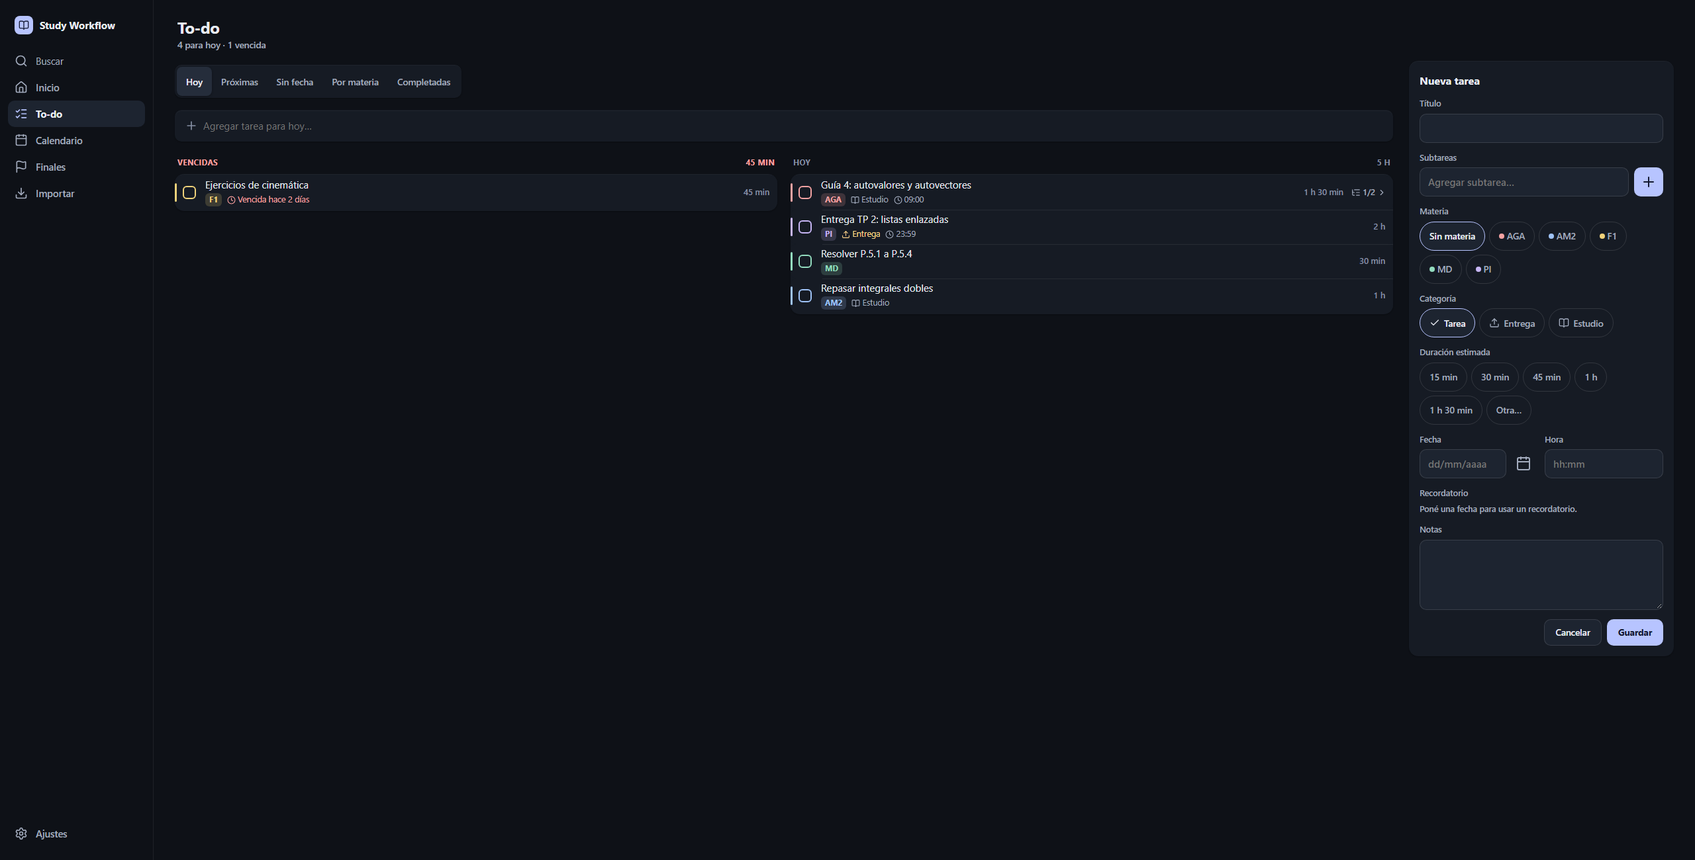
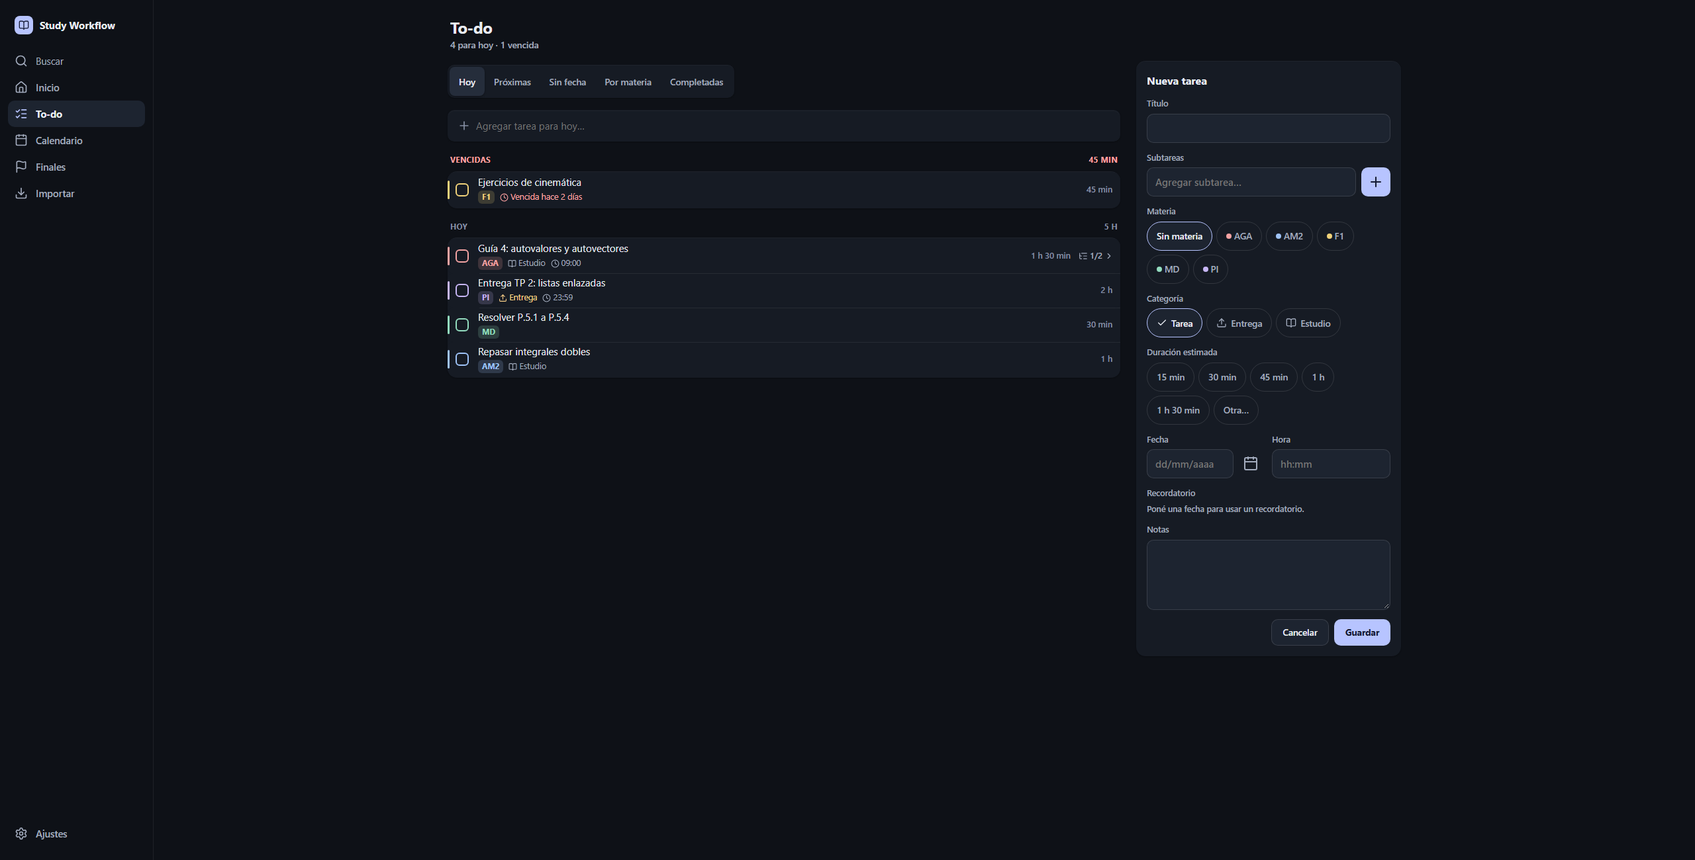
feat(producto): compresión del servidor, tokens de radios y avisos, checklist del S25 y documentación de la etapa 4

diff --git a/core/web/styles.css b/core/web/styles.css
@@ -6,12 +6,13 @@
   --text: #e8ebf2; --muted: #a3acbe; --faint: #8790a4;
   --accent: #b7c4ff; --accent-hover: #c7d1ff; --on-accent: #141a33; --accent-soft: rgb(183 196 255 / .14);
   --late: #ffa3a3; --entrega: #ffd38a; --ok: #93dcbf; /* peligro / aviso / completado */
+  --inverse: #e8ebf2; --on-inverse: #10131a; --inverse-action: #3a4ba8; /* aviso (toast): claro sobre el fondo oscuro */
   --on-strong: #fff; --scrim: rgb(5 7 10 / .6); /* texto sobre el tono fuerte de una materia; fondo detrás de hojas */
   /* Zonas seguras del APK (edge-to-edge): Capacitor inyecta --safe-area-inset-*; en la web valen 0. */
   --sat: var(--safe-area-inset-top, env(safe-area-inset-top, 0px)); --sab: var(--safe-area-inset-bottom, env(safe-area-inset-bottom, 0px));
   /* Espaciado (escala 4/8), radios y elevación */
   --s1: 4px; --s2: 8px; --s3: 12px; --s4: 16px; --s5: 20px; --s6: 24px; --s8: 32px;
-  --r-card: 14px; --r-ctl: 10px; --r-chip: 6px; --r-sheet: 20px;
+  --r-card: 14px; --r-ctl: 10px; --r-sm: 8px; --r-chip: 6px; --r-sheet: 20px;
   --e1: inset 0 1px 0 rgb(255 255 255 / .04), 0 1px 2px rgb(0 0 0 / .3);
   --e2: 0 8px 24px rgb(0 0 0 / .45); --e3: 0 24px 64px rgb(0 0 0 / .55);
   --nav-h: calc(68px + var(--sab)); --side-w: 232px;
@@ -65,7 +66,7 @@ p { margin: 0 0 .75rem; }
   .nav { display: none; }
   .side { display: flex; flex-direction: column; position: fixed; inset: 0 auto 0 0; width: var(--side-w); padding: 20px 12px; border-right: 1px solid var(--line); background: var(--bg); z-index: 10; }
   .brand { display: flex; align-items: center; gap: 10px; font-weight: 700; padding: 4px 10px 20px; }
-  .brand i { width: 28px; height: 28px; border-radius: 8px; background: var(--accent); color: var(--on-accent); display: grid; place-items: center; }
+  .brand i { width: 28px; height: 28px; border-radius: var(--r-sm); background: var(--accent); color: var(--on-accent); display: grid; place-items: center; }
   .side .eyebrow { padding: 16px 12px 6px; }
   .side-item { display: flex; align-items: center; gap: 12px; min-height: 40px; padding: 0 10px; border-radius: var(--r-ctl); color: var(--muted); text-decoration: none; font-size: calc(14.5px * var(--fs)); font-weight: 500; transition: background var(--d-micro), color var(--d-micro); }
   .side-item svg { width: 20px; height: 20px; }
@@ -113,10 +114,10 @@ p { margin: 0 0 .75rem; }
 @media (min-width: 768px) and (pointer: fine) { .btn { min-height: 40px; padding: 0 16px; } }
 .row { display: flex; gap: 8px; flex-wrap: wrap; justify-content: flex-end; }
 .seg { position: relative; display: inline-flex; background: var(--surface); border-radius: var(--r-ctl); padding: 3px; box-shadow: var(--e1); }
-.seg button { position: relative; height: 44px; min-width: 44px; padding: 0 14px; border: 0; background: none; border-radius: 8px; color: var(--muted); cursor: pointer; font-weight: 600; font-size: var(--t-sec); transition: color var(--d-small); }
+.seg button { position: relative; height: 44px; min-width: 44px; padding: 0 14px; border: 0; background: none; border-radius: var(--r-sm); color: var(--muted); cursor: pointer; font-weight: 600; font-size: var(--t-sec); transition: color var(--d-small); }
 .seg button.on, .seg button[aria-pressed='true'] { background: var(--surface-3); color: var(--text); }
 .seg button:has(> .seg-ind) { background: none; }
-.seg .seg-ind { position: absolute; inset: 0; border-radius: 8px; background: var(--surface-3); box-shadow: 0 1px 3px rgb(0 0 0 / .35); }
+.seg .seg-ind { position: absolute; inset: 0; border-radius: var(--r-sm); background: var(--surface-3); box-shadow: 0 1px 3px rgb(0 0 0 / .35); }
 .seg button > span:not(.seg-ind) { position: relative; }
 .seg-scroll { overflow-x: auto; scrollbar-width: none; margin: 0 -16px; padding: 2px 16px; }
 .seg-scroll .seg { width: max-content; }
@@ -138,7 +139,7 @@ p { margin: 0 0 .75rem; }
 .card-head :is(h1, h2) { margin: 0; font-size: var(--t-card); font-weight: 650; display: flex; align-items: center; gap: 8px; }
 .card-head :is(h1, h2) svg { color: var(--faint); }
 .card-head a { color: var(--accent); font-size: var(--t-sec); font-weight: 600; text-decoration: none; min-height: 44px; min-width: 44px; justify-content: flex-end; display: inline-flex; align-items: center; gap: 2px;
-  margin: -8px -6px; padding: 0 6px; border-radius: 8px; transition: background var(--d-micro); }
+  margin: -8px -6px; padding: 0 6px; border-radius: var(--r-sm); transition: background var(--d-micro); }
 @media (hover: hover) { .card-head a:hover { background: var(--accent-soft); } }
 /* Inicio: una columna en el celu (.dash-all), dos por `column` en la compu (.dash-col). */
 .dash-all, .dash-col, .dash-skel { display: flex; flex-direction: column; gap: var(--s3); }
@@ -174,7 +175,7 @@ input:not([type='checkbox']):not([type='radio']):focus, textarea:focus, select:f
 .tag.late { color: var(--late); }
 
 /* Fila de tarea: 48 px, con .chk de 44 x 44. Estructura: .task-row > .chk + .body(.title + .meta) + .dur */
-.task-row { position: relative; display: flex; align-items: center; gap: 4px; min-height: 48px; border-radius: 8px; transition: opacity var(--t); }
+.task-row { position: relative; display: flex; align-items: center; gap: 4px; min-height: 48px; border-radius: var(--r-sm); transition: opacity var(--t); }
 /* TaskRow (core/web/ui.tsx): .row-wrap(m.li) > .task-row > .row-inner(.chk + .body + .dur) */
 .rows { list-style: none; margin: 0; padding: 0; }
 .row-wrap { list-style: none; overflow: hidden; }
@@ -262,7 +263,7 @@ input:not([type='checkbox']):not([type='radio']):focus, textarea:focus, select:f
 .empty { display: flex; flex-direction: column; align-items: center; text-align: center; gap: 8px; padding: 32px 16px; color: var(--muted); font-size: var(--t-sec); }
 .empty .ic { width: 52px; height: 52px; border-radius: 16px; background: var(--surface-2); display: grid; place-items: center; color: var(--faint); margin-bottom: 4px; }
 .empty b { color: var(--text); font-size: var(--t-body); font-weight: 650; }
-.skel { border-radius: 8px; background: linear-gradient(90deg, var(--surface-2) 0 40%, var(--surface-3) 50%, var(--surface-2) 60% 100%) 0 0 / 300% 100%; animation: shimmer 1.2s linear infinite; }
+.skel { border-radius: var(--r-sm); background: linear-gradient(90deg, var(--surface-2) 0 40%, var(--surface-3) 50%, var(--surface-2) 60% 100%) 0 0 / 300% 100%; animation: shimmer 1.2s linear infinite; }
 html[data-motion='off'] .skel { animation: none; }
 .skel-card { display: grid; gap: 14px; }
 .skel-row { display: flex; gap: 12px; align-items: center; }
@@ -271,10 +272,10 @@ html[data-motion='off'] .skel { animation: none; }
 
 .center-screen { min-height: 100dvh; display: flex; flex-direction: column; align-items: center; justify-content: center; text-align: center; padding: 24px; gap: 8px; }
 .toast-zone { position: fixed; left: 0; right: 0; bottom: calc(var(--nav-h) + 12px); display: flex; justify-content: center; pointer-events: none; z-index: 50; padding: 0 16px; }
-.toast { pointer-events: auto; display: flex; align-items: center; gap: 12px; min-height: 52px; background: #e8ebf2; color: #10131a; padding: 6px 6px 6px 18px; border-radius: var(--r-card);
+.toast { pointer-events: auto; display: flex; align-items: center; gap: 12px; min-height: 52px; background: var(--inverse); color: var(--on-inverse); padding: 6px 6px 6px 18px; border-radius: var(--r-card);
   max-width: 420px; width: max-content; font-weight: 600; font-size: var(--t-sec); box-shadow: var(--e3); }
 .toast > span { padding: 8px 12px 8px 0; }
-.toast button { margin-left: auto; min-height: 40px; padding: 0 12px; border: 0; border-radius: 8px; background: none; color: #3a4ba8; font-weight: 700; cursor: pointer; }
+.toast button { margin-left: auto; min-height: 40px; padding: 0 12px; border: 0; border-radius: var(--r-sm); background: none; color: var(--inverse-action); font-weight: 700; cursor: pointer; }
 @media (min-width: 768px) { .toast-zone { bottom: 24px; left: var(--side-w); } }
 /* "Sin animaciones": prefs.ts pone data-motion="off" y --k: 0 */
 html[data-motion='off'] *, html[data-motion='off'] *::before, html[data-motion='off'] *::after { animation: none !important; transition: none !important; scroll-behavior: auto !important; }

diff --git a/core/server/app.ts b/core/server/app.ts
@@ -1,3 +1,5 @@
+import { constants, createBrotliCompress, createGzip } from 'node:zlib';
+import { Readable } from 'node:stream';
 import Fastify, { type FastifyInstance } from 'fastify';
 import fastifyStatic from '@fastify/static';
 import { registerAuth } from './auth.ts';
@@ -47,6 +49,16 @@ export async function buildApp(opts: { dbPath: string; modules: ServerModule[]; 
   const app = Fastify({ logger: !process.env.VITEST });
   registerCors(app, ['https://localhost']);
   registerAuth(app);
+  // Compresión (br o gzip) de texto, JS, CSS y JSON: el bundle baja de ~680 KB a ~200 KB. Con el zlib de Node, sin dependencias.
+  app.addHook('onSend', async (req, reply, payload) => {
+    const type = String(reply.getHeader('content-type') ?? '');
+    const ae = String(req.headers['accept-encoding'] ?? '');
+    const enc = ae.split(',').some((x) => x.trim().startsWith('br')) ? 'br' : ae.split(',').some((x) => x.trim().startsWith('gzip')) ? 'gzip' : null;
+    if (!enc || payload == null || reply.statusCode !== 200 || reply.getHeader('content-encoding') || !['text/', 'application/json', 'application/javascript', 'image/svg'].some((t) => type.startsWith(t))) return payload;
+    reply.header('Content-Encoding', enc).header('Vary', 'Accept-Encoding').removeHeader('content-length');
+    const src = payload instanceof Readable ? payload : Readable.from([Buffer.from(payload as string | Buffer)]);
+    return src.pipe(enc === 'br' ? createBrotliCompress({ params: { [constants.BROTLI_PARAM_QUALITY]: 4 } }) : createGzip());
+  });
 
   app.setErrorHandler((err: Error & { statusCode?: number; validation?: unknown[] }, req, reply) => {
     if (err instanceof HttpError) return reply.status(err.status).send(body(err.code, err.message));

diff --git a/core/server/data.test.ts b/core/server/data.test.ts
@@ -1,4 +1,5 @@
 import { expect, test } from 'vitest';
+import { brotliDecompressSync, gunzipSync } from 'node:zlib';
 import { calendar } from '../../modules/calendar/server/index.ts';
 import { todo } from '../../modules/todo/server/index.ts';
 import { PALETTE } from '../shared/palette.ts';
@@ -50,4 +51,15 @@ test('búsqueda global: tareas y eventos, sin distinguir mayúsculas; mínimo 2 
   expect(await hits('a')).toEqual([]);
   expect((await hits('100%'))).toEqual([]);
   expect((await hits("Parcial"))[0]).toMatchObject({ kind: "parcial", to: expect.stringMatching(/^[/]calendario[/]evento[/]/) });
+});
+
+test('comprime las respuestas JSON si el cliente lo acepta, y no si no', async () => {
+  const { app } = await seed();
+  const gz = await app.inject({ url: '/api/backup', headers: { 'accept-encoding': 'gzip' } });
+  expect(gz.headers['content-encoding']).toBe('gzip');
+  expect(JSON.parse(gunzipSync(gz.rawPayload).toString()).format).toBe('study-workflow-backup');
+  const br = await app.inject({ url: '/api/backup', headers: { 'accept-encoding': 'gzip, br' } });
+  expect(br.headers['content-encoding']).toBe('br');
+  expect(JSON.parse(brotliDecompressSync(br.rawPayload).toString()).version).toBe(1);
+  expect((await app.inject('/api/backup')).headers['content-encoding']).toBeUndefined();
 });

diff --git a/core/web/novedades.ts b/core/web/novedades.ts
@@ -12,6 +12,9 @@ export const NOVEDADES: Novedad[] = [
     'Guía de primera vez para conectar el servidor, crear materias y cargar un plan.',
     'Las fechas se leen “Hoy”, “Mañana”, “En 3 días”, “Vencida hace 2 días”.',
     'Si el sistema pide reducir el movimiento, la app arranca sin animaciones.',
+    'Ícono nuevo (con versión para íconos temáticos), la web se puede instalar como app de escritorio y la pestaña muestra el nombre de cada pantalla.',
+    'Más rápida: la web baja comprimida y la vista Semana se carga solo cuando la abrís. Las listas largas muestran de a 30 tareas con “Mostrar más”.',
+    'El widget de To-do usa el color de acento que elijas.',
   ] },
   { fecha: '14/11/2026', titulo: 'Pulido de la interfaz', items: [
     'Tema oscuro, tarjetas, animaciones con resortes y vibración con la intensidad que elijas.',

diff --git a/modules/calendar/web/calendar.css b/modules/calendar/web/calendar.css
@@ -127,7 +127,7 @@
 .exam-card .ruler b, .week-row .ruler b { transform-origin: bottom; animation: grow calc(.42s * var(--k)) cubic-bezier(.3,1.4,.5,1) both; }
 @keyframes grow { from { transform: scaleY(.2); opacity: 0; } }
 .week-row, .week-head { display: grid; grid-template-columns: minmax(0, 1.4fr) 5fr auto; align-items: center; gap: 10px; }
-.week-row { min-height: 44px; color: inherit; text-decoration: none; border-radius: 8px; }
+.week-row { min-height: 44px; color: inherit; text-decoration: none; border-radius: var(--r-sm); }
 .week-row .name { display: flex; align-items: center; gap: 8px; font-size: var(--t-sec); min-width: 0; }
 .week-row .name span:last-child { overflow: hidden; white-space: nowrap; text-overflow: ellipsis; }
 .week-row .ruler b { height: 20px; border-radius: 5px; }

diff --git a/modules/todo/web/Subtasks.tsx b/modules/todo/web/Subtasks.tsx
@@ -29,7 +29,7 @@ export function useSubtasks(item: TodoItem, onSaved: (i: TodoItem) => void) {
   const done = subs.filter((s) => s.done).length;
   return {
     trailing: (
-      <button type="button" className="sub-btn" aria-expanded={open} aria-label={`Subtareas: ${done} de ${subs.length}`} onClick={() => setOpen(!open)}>
+      <button type="button" className="sub-btn" aria-expanded={open} aria-label={`${done}/${subs.length} subtareas hechas`} onClick={() => setOpen(!open)}>
         <SubtasksIcon size={14} />{done}/{subs.length}<ChevronRightIcon size={14} className="sub-chev" />
       </button>
     ),

diff --git a/e2e/a11y.spec.ts b/e2e/a11y.spec.ts
@@ -70,6 +70,7 @@ test('hoja "Más": abre, atrapa el foco y Esc devuelve el foco', async ({ page }
 test('búsqueda global: Ctrl+K, resultados accesibles y Enter abre el primero', async ({ page }) => {
   await page.setViewportSize({ width: 1440, height: 900 });
   await page.goto('/');
+  await page.waitForLoadState('networkidle'); // la app tiene que haber arrancado para escuchar el teclado
   await expect(page.getByRole('dialog', { name: 'Buscar' })).toBeHidden(); // cerrado no se ve
   await page.keyboard.press('Control+k');
   const dialog = page.getByRole('dialog', { name: 'Buscar' });

diff --git a/web/index.html b/web/index.html
@@ -9,10 +9,11 @@
     <link rel="icon" href="/favicon.svg" type="image/svg+xml" />
     <link rel="apple-touch-icon" href="/apple-touch-icon.png" />
     <link rel="manifest" href="/manifest.webmanifest" />
+    <style>html{background:#0e1117;color:#a3acbe;font-family:system-ui,sans-serif}.boot{display:grid;place-items:center;min-height:100dvh}</style>
     <title>Study Workflow</title>
   </head>
   <body>
-    <div id="root"></div>
+    <div id="root"><div class="boot" role="status">Cargando…</div></div>
     <script type="module" src="/main.tsx"></script>
   </body>
 </html>

diff --git a/docs/checklist-s25.md b/docs/checklist-s25.md
@@ -1,0 +1,65 @@
+# Checklist manual en el S25
+
+Para repetir antes de dar por buena una versión. Marcá lo que anda y anotá lo que no.
+Instalar: `npm run apk` y después `adb install -r dist\study-workflow.apk` (o pasarlo a mano, ver `android.md`).
+
+## 1. Instalación e ícono
+- [ ] El ícono del lanzador se ve nítido (casilla clara con tilde oscuro sobre fondo oscuro).
+- [ ] Con "Íconos temáticos" activado (Fondo de pantalla y estilo), el ícono toma el color del tema.
+- [ ] Al abrir la app, el splash es del mismo oscuro que la app (sin salto de color ni destello blanco).
+- [ ] Barra de estado y barra de navegación oscuras, sin franjas de otro color; nada queda tapado por la cámara ni por la barra de gestos.
+
+## 2. TalkBack (Ajustes › Accesibilidad › TalkBack)
+- [ ] En Inicio y To-do, deslizar de a un elemento lee en orden lógico: título, tarjeta, tareas.
+- [ ] Cada tarea dice "Completar: …" y, al tocarla dos veces, cambia a "pulsado"/"no pulsado".
+- [ ] En Calendario (mes), cada día dice el día, la fecha y qué hay ("martes 17/11: parcial de …, 2 tareas").
+- [ ] Nueva tarea: los campos dicen su nombre (Título, Fecha, Hora…). Escribir `930` en Hora lo deja en 09:30.
+- [ ] El botón del calendario de Fecha abre el selector; se recorre día por día y cada uno dice "martes 17 de noviembre de 2026".
+- [ ] "Deshacer" después de borrar se anuncia y se puede tocar.
+- [ ] La barra "Sin conexión" se anuncia sola al apagar la red.
+- [ ] La búsqueda (Más › Buscar) anuncia "N resultados".
+
+## 3. Letra grande
+- [ ] Ajustes › Pantalla › Tamaño de letra al máximo: Inicio, To-do, Calendario, una tarea y Ajustes se leen sin cortes ni superposiciones.
+- [ ] Lo mismo con el ajuste "Grande" de la app (Ajustes › Apariencia) y la letra del sistema al máximo a la vez.
+- [ ] La barra de abajo no pisa los rótulos (pueden cortarse con "…").
+
+## 4. Teclado y formularios
+- [ ] Al tocar Título, Fecha, Hora o Notas, el teclado no tapa el campo y la barra de abajo se esconde.
+- [ ] Fecha: `5/11`, `hoy`, `mañana` y `0511` se entienden. Hora: `9`, `930`, `21` se entienden.
+- [ ] Editar una tarea y apretar Atrás: pregunta "¿Salir sin guardar?".
+- [ ] Tocar Guardar dos veces seguidas crea una sola tarea.
+
+## 5. Modo avión
+- [ ] Con red: abrir Inicio, To-do y Calendario. Activar modo avión.
+- [ ] Aparece "Sin conexión. Datos del …" arriba.
+- [ ] Se puede tildar una tarea; las demás acciones avisan "Sin conexión: solo podés tildar tareas".
+- [ ] Ajustes muestra solo lo que anda sin red (General, Apariencia, Datos › vaciar copia, Acerca de).
+- [ ] Desactivar modo avión: la barra desaparece y el tilde se sincroniza (verlo en la compu).
+
+## 6. Recordatorios
+- [ ] Ajustes › Recordatorios › Probar sonido: aparece la notificación y suena (con el celu en silencio también, es sonido de alarma).
+- [ ] Una tarea con fecha de hoy y recordatorio "A la hora" (dentro de 2 minutos) suena a tiempo con la app cerrada.
+- [ ] "Insistente": sigue sonando hasta bajar la notificación.
+- [ ] Tildar la tarea antes de la hora cancela el recordatorio.
+- [ ] Reiniciar el celu y comprobar que un recordatorio futuro sigue programado.
+
+## 7. Widget
+- [ ] El widget de To-do muestra las tareas de hoy con la barra de color de la materia.
+- [ ] Tildar una tarea en el widget la completa (y se ve en la app).
+- [ ] El botón + abre "Nueva tarea".
+- [ ] Cambiar el color de acento en Ajustes › Apariencia cambia el contador y el + del widget (puede tardar unos segundos).
+- [ ] Sin conexión, el widget sigue mostrando lo último y deja tildar.
+
+## 8. Gestos
+- [ ] Deslizar de izquierda a derecha entre Inicio, To-do y Calendario cambia de sección.
+- [ ] En el mes del calendario, deslizar cambia de mes (no de sección).
+- [ ] Tirar hacia abajo desde arriba refresca.
+- [ ] Mantener apretada una tarea y moverla la reordena (solo las que no tienen hora).
+- [ ] Atrás: desde una tarea vuelve a la lista; desde una pantalla principal minimiza la app.
+- [ ] Con "Reducir movimiento" o "Sin animaciones" no hay animaciones ni inercia en las hojas.
+
+## 9. Datos
+- [ ] Ajustes › Datos › Exportar abre el navegador y baja `study-workflow-AAAA-MM-DD.json`.
+- [ ] (Solo si querés probar el ciclo completo) Importar ese archivo en una base de pruebas: reemplaza todo y la app recarga.
+- [ ] Vaciar copia offline: pide confirmación y, con red, la app vuelve a bajar los datos.

diff --git a/docs/pedidos/2026-11-15-pulido-final-etapa4.md b/docs/pedidos/2026-11-15-pulido-final-etapa4.md
@@ -1,0 +1,31 @@
+# Pulido final — Etapa 4: terminación de producto y calidad
+
+## Qué se hizo
+- **Ícono y splash:** ícono nuevo (casilla de acento con tilde oscuro), adaptativo con versión monocromática propia para íconos temáticos. El splash y el fondo de la ventana pasaron de `#10131A` a `#0E1117` (el mismo de la web). El mismo dibujo genera el favicon y los íconos de la web (`node scripts/icons.mjs`).
+- **Compu:** favicon, `theme-color`, `manifest.webmanifest` (la app es instalable: Chrome no informa errores de instalabilidad) e ícono para pantalla de inicio. Título de la pestaña según la pantalla ("To-do · Study Workflow", "Nueva tarea · …").
+- **Pantallas anchas:** el contenido se centra y llega a 1440 px de ancho como máximo (a 2560 px quedaba estirado). A 1024 px la lista del To-do se metía debajo del panel de edición: arreglado.
+- **Color de acento en el widget:** el contador y el botón + toman el acento elegido en Ajustes.
+- **Casos límite:** título larguísimo (corta a 2 líneas), materia con nombre largo, 5 exámenes el mismo día (el detalle los lista a todos), 220+ tareas (el To-do dibuja de a 30 por grupo con "Mostrar más"), medianoche (el "Hoy" se actualiza solo) y 0 materias (guía de primera vez y estados vacíos).
+- **Consistencia:** un token más para los radios (`--r-sm`) y colores del aviso en variables. Íconos en 16/18/20 px, radios y espaciados de la escala. El widget usa los mismos colores que la web.
+- **Calidad:** capturas de todas las pantallas y estados en `docs/capturas/` (`npm run capturas`), auditoría axe (`npm run a11y`), Lighthouse y checklist del S25 (`docs/checklist-s25.md`).
+
+## Rendimiento
+| | Antes | Después |
+|---|---|---|
+| JS inicial (sin comprimir) | 953 KB | 677 KB |
+| JS inicial (gzip) | 293 KB | 216 KB |
+| Vista Semana (FullCalendar + temporal-polyfill) | dentro del inicial | 295 KB, se baja solo al abrir Semana |
+| CSS inicial (gzip) | 12.7 KB | 9.6 KB (+3.8 KB al abrir Semana) |
+| Lighthouse móvil (3G lento, CPU 4x) | rendimiento 59 | **91** (FCP 2.0 s, LCP 2.6 s, TBT 230 ms, CLS 0) |
+| Lighthouse escritorio | 95 | **100** |
+| Accesibilidad / buenas prácticas | 100 / 100 | 100 / 100 |
+
+Lo que más pesó: el servidor no comprimía. Ahora responde con Brotli o gzip (zlib de Node, sin dependencias): la web pasó de 59 a 91 en móvil. Sacar FullCalendar del inicio ahorró otros 276 KB sin comprimir.
+
+**Qué más se podría recortar** (sin hacerlo ahora): lo que queda del inicial es React (620 KB de fuente), el motor de animaciones motion (655 KB de fuente; hace falta la versión con arrastre y layout), react-router (368 KB) y dnd-kit (122 KB). Un recorte grande implicaría cambiar de librería; no vale la pena para un solo usuario.
+
+**Listas largas** (medido con CPU 4 veces más lenta que la compu, que se parece a un celu): con 120 filas dibujadas, primera fila a los 1.3 s en 412 px y 1.0 s en 1440 px; la mayor parte es arrancar el JS y no las filas. En la compu sin throttling, 354 filas aparecen en 330 ms.
+
+## Pendiente (a propósito)
+- `valid-source-maps` y `unused-javascript` de Lighthouse son informativos: el JS no usado es mayormente la parte de React que no se ejecuta al inicio.
+- El APK no tiene íconos para Android 7 o anterior (mínimo soportado: Android 8).

diff --git a/README.md b/README.md
@@ -12,6 +12,8 @@ npm run dev          # server (:3000) + Vite con proxy /api
 npm test
 npm run typecheck
 npm run a11y         # auditoría de accesibilidad (axe + Playwright) a 412 y 1440 px, con base temporal
+npm run capturas     # capturas de todas las pantallas y estados en docs/capturas/ (base temporal)
+node scripts/icons.mjs  # regenera el favicon y los íconos de la web (el dibujo es el mismo del ícono de Android)
 ```
 
 La base local queda en `./data/study.sqlite`.
@@ -115,6 +117,14 @@ docker compose -p study-workflow -f releases/$V/compose.yaml up -d
 - **Búsqueda global** de tareas y eventos: `/` o Ctrl+K en la compu; "Buscar" en el menú Más del celu.
 - **Backup**: Ajustes › Datos › Exportar baja un .json con todo; Importar lo restaura (reemplaza todo; el servidor guarda antes una copia en `/data/backups/pre-import-*.sqlite`).
 - **Guía de primera vez** (3 pasos, salteable); se reabre desde Ajustes › General.
+
+## Qué cambió de uso (pulido final, etapa 4)
+
+- Ícono nuevo y splash del mismo color que la app. En Android 13+ el ícono acompaña el tema si activás "Íconos temáticos".
+- La web se puede instalar como app (Chrome › ⋮ › Instalar) y la pestaña muestra la pantalla en la que estás.
+- La vista Semana tarda un instante en abrirse la primera vez (se baja solo cuando la usás).
+- Con muchas tareas en un grupo, el To-do muestra 30 y un botón "Mostrar más".
+- El checklist para probar en el celu está en `docs/checklist-s25.md`; los números de rendimiento, en `docs/pedidos/2026-11-15-pulido-final-etapa4.md`.
 
 ## Agregar un módulo
 
